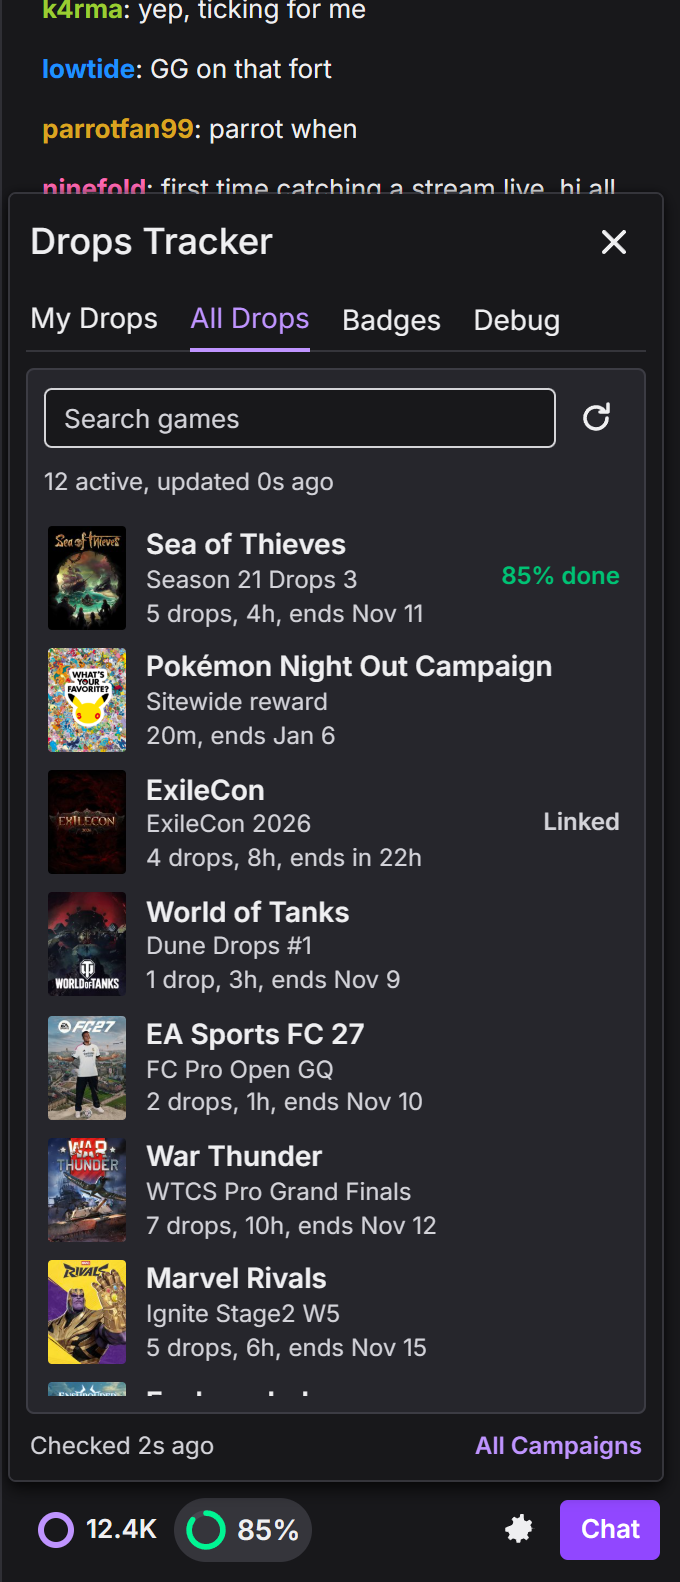
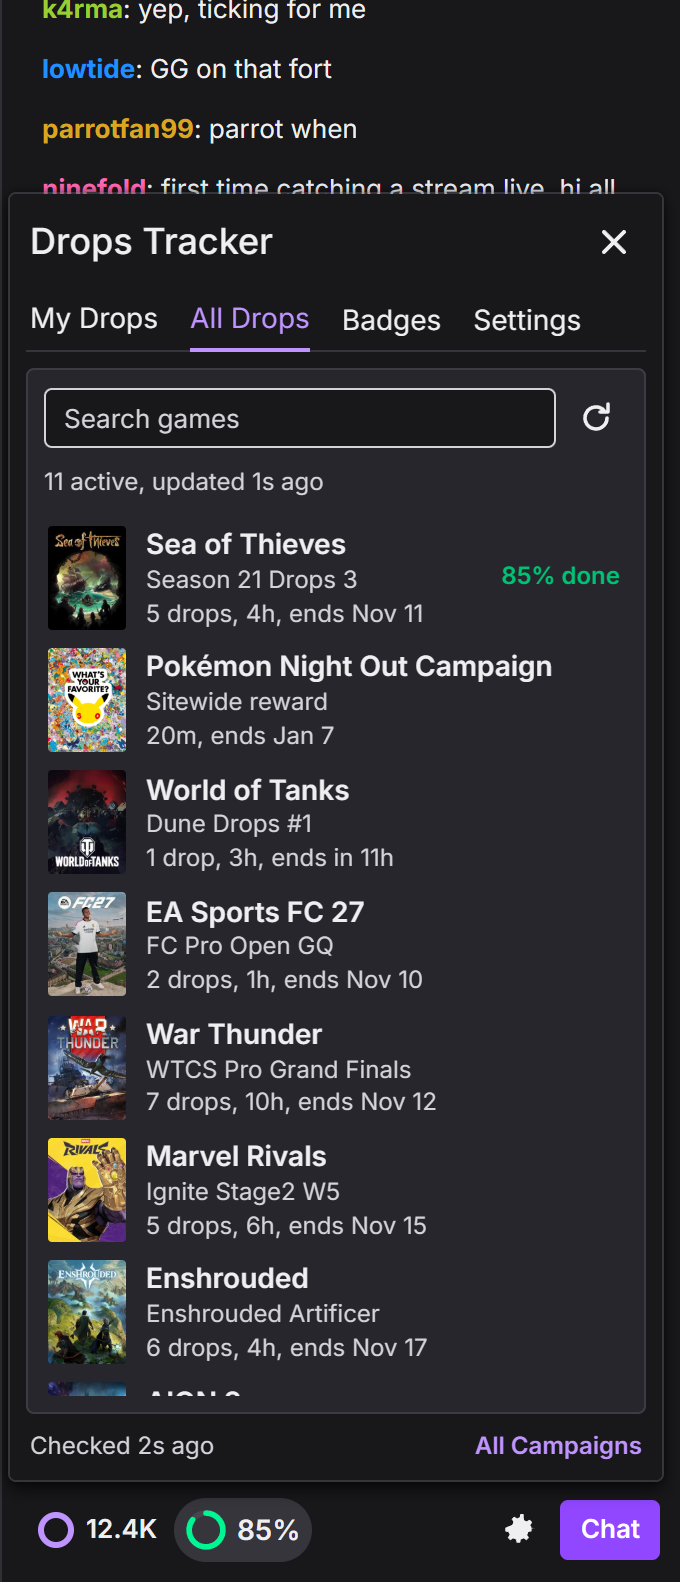
Settings tab, second-stream diagnosis, panel closing fix
- Settings tab replaces Debug. Auto-refresh and Auto-reload are on by
  default; Developer mode (off) reveals the debug tools.
- A hang while another stream is playing is diagnosed as second_stream,
  names the other stream, and is never auto-reloaded.
- The panel follows the chip when channel points mount late instead of
  closing itself.
- Facts doc: how a watched minute reaches Twitch, measured live.
- Screenshots and store images regenerated.

diff --git a/extension/lib/panel.js b/extension/lib/panel.js
@@ -21,7 +21,7 @@ const TEMPLATE = `
       <button id="tab-mine" class="tab" type="button" role="tab" aria-selected="true" aria-controls="view-mine">My Drops<i class="tab-dot"></i></button>
       <button id="tab-all" class="tab" type="button" role="tab" aria-selected="false" aria-controls="view-all">All Drops</button>
       <button id="tab-badges" class="tab" type="button" role="tab" aria-selected="false" aria-controls="view-badges">Badges</button>
-      <button id="tab-debug" class="tab" type="button" role="tab" aria-selected="false" aria-controls="view-debug">Debug</button>
+      <button id="tab-settings" class="tab" type="button" role="tab" aria-selected="false" aria-controls="view-settings">Settings</button>
     </div>
     <div id="view-mine" role="tabpanel" aria-labelledby="tab-mine">
     <div id="verdict" class="section status">
@@ -61,28 +61,42 @@ const TEMPLATE = `
       </div>
     </div>
     <div id="view-badges" role="tabpanel" aria-labelledby="tab-badges" hidden></div>
-    <div id="view-debug" role="tabpanel" aria-labelledby="tab-debug" hidden>
+    <div id="view-settings" role="tabpanel" aria-labelledby="tab-settings" hidden>
     <div class="section">
-      <p class="strong label">Settings</p>
       <div class="setting">
         <label for="auto-refresh">Auto-refresh Drops page</label>
         <span class="toggle">
-          <input id="auto-refresh" type="checkbox">
+          <input id="auto-refresh" type="checkbox" aria-describedby="auto-refresh-hint">
           <label for="auto-refresh" aria-hidden="true"></label>
         </span>
       </div>
+      <p id="auto-refresh-hint" class="sub setting-hint">Twitch's Drops page never updates by itself. Stream tabs are never touched.</p>
       <div id="auto-refresh-every" class="setting every" hidden>
         <label for="auto-refresh-minutes" class="sub">Refresh every</label>
         <select id="auto-refresh-minutes" class="select"></select>
       </div>
-      <div class="setting every">
+    </div>
+    <div class="section">
+      <div class="setting">
         <label for="auto-reload">Auto-reload hung streams</label>
         <span class="toggle">
-          <input id="auto-reload" type="checkbox">
+          <input id="auto-reload" type="checkbox" aria-describedby="auto-reload-hint">
           <label for="auto-reload" aria-hidden="true"></label>
         </span>
       </div>
+      <p id="auto-reload-hint" class="sub setting-hint">After 6 minutes with no new minutes. At most 3 tries, never on a paused stream or when another stream is the likely cause.</p>
     </div>
+    <div class="section">
+      <div class="setting">
+        <label for="dev-mode">Developer mode</label>
+        <span class="toggle">
+          <input id="dev-mode" type="checkbox" aria-describedby="dev-mode-hint">
+          <label for="dev-mode" aria-hidden="true"></label>
+        </span>
+      </div>
+      <p id="dev-mode-hint" class="sub setting-hint">Shows debug tools below: the lost minutes log, tracker status and debug info for bug reports.</p>
+    </div>
+    <div id="debug-sections" hidden>
     <details id="log-section" class="section">
       <summary><span id="log-summary" class="strong">Lost minutes</span>${CHEVRON_ICON}</summary>
       <div id="log-rows"></div>
@@ -105,6 +119,7 @@ const TEMPLATE = `
         <button id="debug-copy" class="link" type="button">Copy debug info</button>
       </div>
       <p class="sub log-note">Copied text has your channels and progress, never your login.</p>
+    </div>
     </div>
     </div>
     <footer class="foot">
@@ -221,6 +236,10 @@ export function createPanel(root, { reloadTab, onClose, channelLogin } = {}) {
     minutes.value = String(settings.autoRefreshMinutes);
     $('auto-refresh-every').hidden = !settings.autoRefresh;
     $('auto-reload').checked = settings.autoReload;
+    $('dev-mode').checked = settings.devMode;
+    const wasHidden = $('debug-sections').hidden;
+    $('debug-sections').hidden = !settings.devMode;
+    if (wasHidden && settings.devMode && !$('view-settings').hidden) renderDebug(lastState, Date.now());
   };
   const save = (change) => {
     showSettings({ ...settings, ...change });
@@ -228,6 +247,7 @@ export function createPanel(root, { reloadTab, onClose, channelLogin } = {}) {
   };
   toggle.addEventListener('change', () => save({ autoRefresh: toggle.checked }));
   $('auto-reload').addEventListener('change', () => save({ autoReload: $('auto-reload').checked }));
+  $('dev-mode').addEventListener('change', () => save({ devMode: $('dev-mode').checked }));
   minutes.addEventListener('change', () => save({ autoRefreshMinutes: Number(minutes.value) }));
   let reloadMemo = null;
   let minuteLog = [];
@@ -406,7 +426,7 @@ export function createPanel(root, { reloadTab, onClose, channelLogin } = {}) {
   }
 
   function showTab(name) {
-    for (const tab of ['mine', 'all', 'badges', 'debug']) {
+    for (const tab of ['mine', 'all', 'badges', 'settings']) {
       $(`view-${tab}`).hidden = tab !== name;
       $(`tab-${tab}`).setAttribute('aria-selected', String(tab === name));
     }
@@ -414,7 +434,7 @@ export function createPanel(root, { reloadTab, onClose, channelLogin } = {}) {
     $('foot-link').textContent = all ? 'All Campaigns' : 'Inventory';
     $('foot-link').href = all ? CAMPAIGNS_PAGE : 'https://www.twitch.tv/drops/inventory';
     if (name === 'badges' && lastState) renderBadges(lastState, Date.now());
-    if (name === 'debug') renderDebug(lastState, Date.now());
+    if (name === 'settings' && settings.devMode) renderDebug(lastState, Date.now());
     if (!all) return;
     chrome.storage.local.get('directory').then((r) => {
       directory = r.directory ?? directory;
@@ -425,7 +445,7 @@ export function createPanel(root, { reloadTab, onClose, channelLogin } = {}) {
   $('tab-mine').addEventListener('click', () => showTab('mine'));
   $('tab-all').addEventListener('click', () => showTab('all'));
   $('tab-badges').addEventListener('click', () => showTab('badges'));
-  $('tab-debug').addEventListener('click', () => showTab('debug'));
+  $('tab-settings').addEventListener('click', () => showTab('settings'));
   $('dir-refresh').addEventListener('click', () => loadDirectory(true));
   $('dir-search').addEventListener('input', () => renderDirectory(Date.now()));
   // Twitch's page shortcuts would otherwise take typed letters: f for fullscreen, m for mute.
@@ -457,7 +477,8 @@ export function createPanel(root, { reloadTab, onClose, channelLogin } = {}) {
     else if (state.lastGainAt && v.code === 'earning') age = `+1m ${ago(now - state.lastGainAt)}`;
     $('verdict-age').textContent = age;
     const action = $('verdict-action');
-    const reloadable = v.code === 'stalled' && v.tabId != null && v.cause !== 'too_many' && v.cause !== 'paused';
+    // A reload cannot fix these: the cause is another stream, or the user's own pause.
+    const reloadable = v.code === 'stalled' && v.tabId != null && !['too_many', 'second_stream', 'paused'].includes(v.cause);
     action.hidden = !reloadable;
     action.onclick = reloadable ? () => reloadTab?.(v.tabId) : null;
   }
@@ -642,7 +663,7 @@ export function createPanel(root, { reloadTab, onClose, channelLogin } = {}) {
       lastState = state;
       if (allShown()) renderDirectory(now);
       if (!$('view-badges').hidden) renderBadges(state, now);
-      if (!$('view-debug').hidden) renderDebug(state, now);
+      if (!$('view-settings').hidden && settings.devMode) renderDebug(state, now);
       $('checked').textContent = state.lastPollAt ? `Checked ${ago(now - state.lastPollAt)}` : '';
     },
   };

diff --git a/extension/lib/tracker.js b/extension/lib/tracker.js
@@ -314,7 +314,8 @@ function trackMinutes(previous, campaigns, sessions, firstGoodPoll, sessionOnly,
   return { peaks, added, risen };
 }
 
-function diagnose(candidates, playingCount, active, unclaimed) {
+function diagnose(candidates, streams, active, unclaimed) {
+  const playingCount = streams.filter((s) => s.playerState === 'playing').length;
   const named = (s) => s.displayName || s.login;
   const notPlaying = candidates.filter((s) => s.playerState !== 'playing');
   if (notPlaying.length === candidates.length) {
@@ -343,6 +344,18 @@ function diagnose(candidates, playingCount, active, unclaimed) {
       message: `${playingCount} streams are playing here. Twitch reportedly stops counting above ${STREAM_SOFT_LIMIT} per IP. Close the extras.`,
       tabId: playing.tabId,
     };
+  }
+  // Measured 2026-11-09: with a second stream playing, on the same channel or another one, Twitch
+  // stopped counting entirely, and closing it brought minutes back within about 2 min. Reloading
+  // the earning tab would not remove the cause, so this is not a reloadable cause.
+  // (docs/twitch-drops-facts.md, "Measured live"). It conflicts with one 2026-11-06 run where two
+  // streams still earned, so the message says what was seen rather than that two always fail.
+  const other = streams.find((s) => s.playerState === 'playing' && s.tabId !== playing.tabId);
+  if (other) {
+    const message = other.login && other.login === playing.login
+      ? `${named(playing)} is playing in two tabs, and Twitch is not adding minutes. A second stream stopped Drops in testing until it was closed. Close one of them.`
+      : `${named(other)} is also playing, and Twitch is not adding minutes on ${named(playing)}. A second stream stopped Drops in testing until it was closed. Close or pause ${named(other)}.`;
+    return { cause: 'second_stream', message, tabId: playing.tabId, otherTabId: other.tabId };
   }
   return {
     cause: 'uncounted',
@@ -482,7 +495,6 @@ export function update(prev, obs, now) {
   }
 
   // Verdict.
-  const playingCount = streams.filter((st) => st.playerState === 'playing').length;
   // A missing <video> is not evidence: Twitch could have moved the player out of reach.
   const allDead = candidates.length > 0 && candidates.every((c) => !['playing', 'no_video'].includes(c.playerState));
   const unchecked = streams.some((st) => st.channelState === 'unknown');
@@ -539,7 +551,7 @@ export function update(prev, obs, now) {
     if (now - since < limit) {
       s.verdict = { code: 'waiting', since };
     } else {
-      s.verdict = { code: 'stalled', since, ...diagnose(candidates, playingCount, s.active, s.unclaimed) };
+      s.verdict = { code: 'stalled', since, ...diagnose(candidates, streams, s.active, s.unclaimed) };
     }
   }
   const v = s.verdict;

diff --git a/extension/lib/settings.js b/extension/lib/settings.js
@@ -1,15 +1,22 @@
 // User settings and the auto-refresh timing. Pure, so it can be tested without a browser.
 
 export const INTERVALS = [1, 5, 10, 30];
-export const DEFAULTS = { autoRefresh: false, autoRefreshMinutes: 5, autoReload: false };
+// Both helpers are on by default (Tyler's call, 2026-11-09, for the store release). devMode only
+// shows the debug tools in the Settings tab.
+export const DEFAULTS = { autoRefresh: true, autoRefreshMinutes: 5, autoReload: true, devMode: false };
 export const DROPS_PAGES = ['https://www.twitch.tv/drops/*'];
 const JITTER_MS = 5000; // The alarm can fire slightly early; do not slip a whole minute over that.
 
+// A saved choice wins, so turning a default-on setting off sticks. Anything that is not a real
+// boolean falls back to the default rather than to off.
+const bool = (v, d) => (typeof v === 'boolean' ? v : d);
+
 export function normalize(raw) {
   return {
-    autoRefresh: raw?.autoRefresh === true,
+    autoRefresh: bool(raw?.autoRefresh, DEFAULTS.autoRefresh),
     autoRefreshMinutes: INTERVALS.includes(raw?.autoRefreshMinutes) ? raw.autoRefreshMinutes : DEFAULTS.autoRefreshMinutes,
-    autoReload: raw?.autoReload === true,
+    autoReload: bool(raw?.autoReload, DEFAULTS.autoReload),
+    devMode: bool(raw?.devMode, DEFAULTS.devMode),
   };
 }
 
@@ -20,8 +27,8 @@ export const RELOAD_AFTER_MS = 6 * 60000;
 export const RELOAD_GAP_MS = 10 * 60000;
 export const RELOAD_MAX = 3;
 const RECOVERED_SHOWN_MS = 30 * 60000;
-// A reload cannot fix a tab you paused, too many streams, an unclaimed drop, or a player it cannot
-// see, which could be Twitch moving it and would just reload for nothing.
+// A reload cannot fix a tab you paused, too many streams or a second one playing, an unclaimed
+// drop, or a player it cannot see, which could be Twitch moving it and would just reload for nothing.
 const RELOADABLE = new Set(['uncounted', 'frozen', 'ended', 'asleep']);
 
 /**

diff --git a/extension/panel.css b/extension/panel.css
@@ -195,7 +195,8 @@ details[open] .chevron { transform: rotate(90deg); }
 
 /* Settings. The toggle is Twitch's: 36x20, 2px outline, knob and outline purple when on. */
 .setting { display: flex; align-items: center; justify-content: space-between; gap: 8px; min-height: 24px; }
-.setting label[for="auto-refresh"]:not([aria-hidden]), .setting label[for="auto-reload"]:not([aria-hidden]) { cursor: pointer; }
+.setting > label:not([aria-hidden]) { cursor: pointer; }
+.setting-hint { margin-top: 2px; padding-right: 44px; }
 .every { margin-top: 8px; }
 .toggle { position: relative; flex: none; width: 36px; height: 20px; }
 .toggle input { position: absolute; inset: 0; width: 36px; height: 20px; margin: 0; opacity: 0; cursor: pointer; }

diff --git a/extension/content.js b/extension/content.js
@@ -167,7 +167,6 @@
     const points = row.querySelector(POINTS);
     const group = points && [...row.children].find((c) => c.contains(points));
     if (group ? chip.parentElement === group : row.contains(chip)) return;
-    closePanel(false);
     if (group) {
       chip.style.marginRight = '';
       group.append(chip);
@@ -175,6 +174,9 @@
       chip.style.marginRight = 'auto';
       row.prepend(chip);
     }
+    // Follow the chip rather than close: the points mount about a second after the row (real
+    // popout chat, 2026-11-09), so closing here shut a panel opened in that first second.
+    placePanel();
   }
 
   function fit(view) {

diff --git a/docs/twitch-drops-facts.md b/docs/twitch-drops-facts.md
@@ -6,7 +6,8 @@ Measured 2026-11-06 on a real account unless marked otherwise. Channel names in 
 
 ## Symptom index
 - **Inventory page shows an old percentage**: it does not update after load. It read 79% while the server read 82%. Refreshing only fixes the display.
-- **Minutes stop rising while the stream plays fine**: real server-side hangs, seen twice within 16 minutes on 2026-11-06 from about 15:06 UTC. One drop stayed at 195 of 240 for 5 min, then recovered with no action from this side. It then stayed at 198 for at least 5m20s, until sampling stopped. Cause unknown. What the browser tabs were doing at the time was not observed.
+- **Minutes stop rising while the stream plays fine**: real server-side hangs, seen twice within 16 minutes on 2026-11-06 from about 15:06 UTC. One drop stayed at 195 of 240 for 5 min, then recovered with no action from this side. It then stayed at 198 for at least 5m20s, until sampling stopped. Cause unknown. What the browser tabs were doing at the time was not observed. A third, about 4 minutes, was watched from inside the page on 2026-11-09: the page sent every minute and Twitch accepted each one without counting it, while the same channel was also open in a second browser. See [Measured live](#measured-live-2026-11-09).
+- **Is crediting tied to Twitch's integrity check, or what makes a minute count**: see [How a watched minute reaches Twitch](#how-a-watched-minute-reaches-twitch). The minute report carries the integrity token, but in the one hang watched live every report was sent and accepted, with the same channel open in two browsers at the time. Alone, one stream earned 19 of 19 minutes. With a second stream on another channel, it earned 0 in 10.5 minutes, and recovered once that stream closed.
 - **Session names a channel but nothing is rising**: `dropCurrentSession` still named the channel throughout that hang. It is not proof of earning.
 - **Stuck one minute short of a drop, with Twitch's page reading 99%**: seen once. See [Hang one minute short of a drop](#hang-one-minute-short-of-a-drop).
 - **Minutes lost with no visible cause**: not known. See [Why minutes are lost](#why-minutes-are-lost).
@@ -17,7 +18,8 @@ Measured 2026-11-06 on a real account unless marked otherwise. Channel names in 
 - **Lost minutes blamed on background or muted**: fixed 2026-11-07. `compareMinutes` in `extension/lib/minutelog.js` counted paused minutes with the rest. It now leaves them out and the panel says how many. Same real log, before and after: muted 26% to 82%, background 45% to 78%, one stream 52% to 95%, total 69% to 87%. Frozen and asleep players still count. Two streams now read 83% against 95% for one, but that includes a 15 minute hang, so it is not a measure of two streams alone.
 - **The log stops while a tab is still open**: it only keeps minutes where a stream can earn. In one case the log stopped at 00:56 UTC with the tab reading paused, and the channel was offline when checked at 01:36, so its stream most likely ended then. The exact end time was not checked.
 - **No drops listed on a channel, or the chip has no percentage**: by design, see `channelDrops` in `extension/lib/chip.js`. My Drops lists what this channel can earn, or else what another open tab can. A failed channel lookup hides nothing, since that is unknown rather than none. Progress on everything is still in All Drops.
-- **Clicking the chip shows nothing, or e2e times out waiting for `#drops-tracker-panel .panel`**: the panel stays `visibility:hidden` until `extension/panel.css` reports loaded or failed, in `openPanel` in `extension/content.js`, with no fallback. Seen once, 2026-11-07, on the real popout chat step, followed by 4 clean passes. Cause not known. Only seen in the test so far. `scripts/e2e.mjs` now prints the host, sheet and timing state if it recurs.
+- **Clicking the chip shows nothing, or the panel opens and vanishes within a second, or e2e times out waiting for `#drops-tracker-panel .panel`**: found 2026-11-09. On real popout chat, Twitch's channel points mount about a second after the chat row. `attach` in `extension/content.js` then moves the chip beside them, and it used to close the panel when it did. A click in that first second opened a panel that closed itself. The e2e clicks at once, so it failed every run from 2026-11-09. Now the panel follows the chip (`placePanel`) instead. If it recurs, `scripts/e2e.mjs` prints the host, sheet and timing state. An empty `hostVisibility` there means the panel was removed, not left unstyled. Separately, the panel stays `visibility:hidden` until `extension/panel.css` reports loaded or failed.
+- **"<channel> is also playing" on a hang, with no Reload button**: a second stream was playing when minutes stopped. In the 2026-11-09 test, a second stream stopped Drops until it was closed, so this cause is never auto-reloaded. See `diagnose` in `extension/lib/tracker.js` and [Measured live](#measured-live-2026-11-09).
 - **Minutes rising, but well under one per minute**: seen once, 2026-11-06 from 15:19 UTC: 15 minutes credited in 38, with the strip alternating added and missed. Measured again straight after: exactly +1 every 60s. Cause unknown. Rising alone is not healthy, so the tracker reports the rate and calls under 75% over 10+ watched minutes "Earning slowly".
 - **Panel looks off next to Twitch**: it follows the Drops & More panel, measured 2026-11-06: 326px wide, sections `--color-background-alt` with `--color-border-base` and 4px radius, cards `--color-background-float`, 40px art, 8px bar in `--color-background-progress-status`, type 18/500, 14/600, 12/400, round 32px icon buttons. Twitch's root font-size is 10px, so use px, not rem.
 - **Scrollbars or the wrong font in the panel**: it must stay in a shadow root on the page. An iframe gets neither Twitch's font nor its tokens, and showed scrollbars at the display scaling used in testing.
@@ -27,7 +29,7 @@ Measured 2026-11-06 on a real account unless marked otherwise. Channel names in 
 - **Chip missing from the chat row**: the hook is `[data-test-selector="chat-input-buttons-container"]` in `extension/content.js`. `npm run e2e` fails loudly if real Twitch stops matching it.
 - **All Drops says the campaigns page did not answer, or a tab flashes up and nothing loads**: Twitch only gives that list to its own page (see [The All Drops list](#the-all-drops-list)). The hook is `extension/page-hook.js`, which wraps the page's `fetch`. If Twitch stops using `fetch` on that page or renames `ViewerDropsDashboard`, the capture finds nothing and the load times out at 25s. Never measured in a truly hidden tab on a logged-in account: the test browser reported itself visible, so if this fails only in the background, that is why.
 - **All Drops does not update after moving to its page inside Twitch**: the hook only runs on a full load of `/drops/campaigns`. It was narrowed from all of `/drops/*` so that it stays off the Inventory page, where drops are claimed, because whether Twitch's integrity check reacts to a wrapped `fetch` is unknown. Measured on real Twitch: its exact code captured the real list with the page rendering normally, though by client-side navigation, not a real load or a hidden tab.
-- **A stream reloaded by itself**: Auto-reload hung streams, off by default. Timing and limits are in `autoReloadStep` in `extension/lib/settings.js`. It reloads only the tab the verdict names, and only while that tab is still on a channel. Whether a reload clears a hang has not been measured: the panel reports whether minutes came back, and that note is the evidence to collect.
+- **A stream reloaded by itself**: Auto-reload hung streams, on by default since 2026-11-09 (Settings tab). Timing and limits are in `autoReloadStep` in `extension/lib/settings.js`. It reloads only the tab the verdict names, and only while that tab is still on a channel. Whether a reload clears a hang has not been measured: the panel reports whether minutes came back, and that note is the evidence to collect.
   - The only real firing so far (2026-11-07 00:19:58 UTC) is no evidence. It hit a tab about 2 seconds after it came back from a 55 minute pause, because the hang was timed from the last gain, before the pause. "Minutes came back" was just the tab playing again.
   - Fixed the same day: a hang now counts from `ableSince` (in `extension/lib/tracker.js`), when a tab last became able to earn, so a tab back from a pause or offline waits as normal. Side effect: pausing and resuming during a real hang restarts its timer.
   - A reload also cleared the player's mute, so expect that.
@@ -46,13 +48,57 @@ Not known. No official explanation was found, and reports conflict on background
 - Two streams: 47 of 53, but 5 of the 6 misses fell in one 11 minute burst (21:16 to 21:26), and a repeat of the same test gave 97%.
 - Tab in the background: 24 of 25. Player muted: 6 of 6. Neither was a problem here.
 
-Two streams may raise the risk, or that burst may be unrelated: what differed between the two stretches was not recorded, including which channel the second stream was.
+Two streams may raise the risk, or that burst may be unrelated: what differed between the two stretches was not recorded, including which channel the second stream was. On 2026-11-09 a second stream on another channel stopped credit completely for 10.5 minutes, until it was closed; see [Measured live](#measured-live-2026-11-09).
 
 **Open questions:**
 
 - The half-speed stretches earlier that day remain unexplained.
 - Brave Shields (or another content blocker) blocking something: the minute log cannot see this, so it needs testing by hand.
 - Ads: the ad reading in `extension/background.js` uses `data-a-target` names not yet seen on a real ad, so it can read false during one.
+
+## How a watched minute reaches Twitch
+Read on 2026-11-08 from Twitch's web client code (every JS chunk from `assets.twitch.tv` plus the Amazon IVS player's wasm, downloaded as static files with no player run). Steps 1 to 3 were then confirmed live; see [Measured live](#measured-live-2026-11-09) below.
+
+1. **The player counts.** The live player is Amazon IVS compiled to wasm (`amazon-ivs-wasmworker.min-*.wasm`), with its own `MinuteWatchedController` and `PerMinuteTimer`. An hls.js backend exists behind the experiment `hlsjs_playback_adapter`, and a plain `<video>` module does the same. In the JS versions the timer starts on the `playing` event, stops on `pause`, `ended` and teardown, and resumes where it stopped. The first tick lands at a random 0 to 59s after play starts, then every 60s. Buffering does not stop it in the JS versions. The IVS version could not be read.
+2. **It reports a `minute-watched` event** with `minutes_logged` and `seconds_offset`. The page adds: `muted`, `volume`, `time_spent_hidden`, `is_ad_playing`, `app_fullscreen`, `chat_visible`, `logged_in`, `user_id`, `broadcast_id`, `backend`, quality and `thermal_state`. So Twitch knows each minute's mute, volume and hidden time. Whether it uses them to decide credit is not known.
+3. **It is sent through GQL, not to `spade.twitch.tv`.** The page batches events for 1s and sends them as the mutation `sendSpadeEvents` (`{data, repository:"twilight", encoding:"GZIP_B64"}`) to `gql.twitch.tv/gql`. The headers are the same as every GQL call: OAuth, Client-ID, Client-Session-Id, and **`Client-Integrity` whenever the page holds a token** (`cit_gql_rollout` was on in Twitch's settings). Exception: an event marked `nativeSpadeEnabled` is sent by the player itself, and where that goes was not found.
+4. **A failed send loses the minute.** It is a plain `fetch`: the response is never read, so an error or an integrity challenge on it goes unanswered. After 3 failed network attempts, all of the page's analytics stop for 60s, and events in that window are thrown away, not retried.
+5. **Twitch confirms over pubsub.** The page knows a message type `drop-progress` with `{channel_id, drop_id, current_progress_min, required_progress_min}` (from Twitch's staff pubsub simulator). It sits next to `user-drop-events` in Twitch's topic list. TwitchDropsMiner listens on `user-drop-events.<userID>` for it, which was not checked here.
+
+**The integrity token.** Fetched at page boot from the integrity endpoint, which is guarded by Kasada (`k.twitchcdn.net`). Kasada guards only that endpoint and the login, signup and auth flow endpoints, nothing on the watch path. The token is refreshed at 90% of its lifetime. A failed fetch is retried 3 times, after about 5 to 10s, 25 to 50s and 125 to 250s. If all fail, the page logs a warning and carries on without a token.
+
+**So, tied to integrity or not?** The minute report rides the same GQL path that integrity guards, and carries the token. Inventory works without it, and so does reading progress. Whether the server refuses to credit a minute sent without a valid token is not known; that happens on Twitch's side.
+
+### Measured live, 2026-11-09
+A signed-in tab on a channel (Golf) earning a channel badge, 03:16 to 03:30 UTC, in the app's browser pane. The page's own `gql` calls were logged from inside the page (operation names, which headers were present, the decoded events). Token values were never read out. The badge's minutes came from `DropCurrentSessionContext`, sampled every 15s.
+
+**Not a clean single-stream test.** The same account had the same channel open in Brave the whole time, and a phone was playing another channel. If the phone was on the home Wi-Fi (not confirmed), that is three streams on one IP. The Brave tab sent its own minute reports, which were not logged, so a credit cannot always be tied to the report that earned it.
+
+- Every `minute-watched` went out as `sendSpadeEvents` with `Client-Integrity` set, a 500 character token. Each got HTTP 200 with `statusCode: 204` inside. They came exactly 60s apart, at the same `seconds_offset` (30.27s) each time, and `minutes_logged` counted 1, 2, 3 and on. The native player path was not seen.
+- Every other `gql` call the page made also carried `Client-Integrity`.
+- Each report says how much video was really downloaded that minute: `transport_segments` 30 (2s segments) and `transport_download_bytes` about 25.8 MB at 720p. So Twitch can tell a playing stream from a page that only sends reports. The report also has `player_state`, `hidden`, `muted`, `volume`, `playback_rate`, `is_ad_playing` and the player's size.
+- **Credits land about once a minute, but not on the report's beat.** At +245, +605, +665 and +725s, the session minutes rose within 2s of this tab's report. Two other credits (between +277 and +292s, and between +337 and +352s) matched none of this tab's reports. In the later two-channel run, two credits landed 3s *before* the report they would belong to. So a report is not what immediately triggers a credit; Twitch credits on its own clock, about once a minute.
+- **A second player appears for about 43s at a time, even with Turbo.** At +245s Twitch logged `video_ad_pbyp_spawn`, with a muted 191px "picture-by-picture" player. That player sent its own `minute-watched` (`player: "picture-by-picture"`, `minutes_logged` 1) and despawned at +288s. The account has Turbo (`turbo: true` in every report) and Tyler reports seeing no ads, so whether an ad shows is not known; only the event names say "ad". The main player kept reporting throughout. In the clean pass below it happened twice more, and its report never earned an extra minute.
+- **A hang, watched live:** after 274 at +352s, minutes stayed flat for about 4 minutes. The reports at +365, +425, +485 and +545s were all sent with the token, accepted with 204, and showed 30 segments downloaded and `Playing`. The count went up again at +607s, with nothing done, and kept rising by 1 a minute. The 4 missed minutes were not made up. After it, credits followed this tab's reports, where before it some had followed the Brave tab's. The hang also began about 75s after the picture-by-picture player despawned.
+
+So this tab did everything right and Twitch did not count its minutes. A missing token or a failed send from this tab is ruled out. It does not show a hang with no cause: two players on one channel, possibly three streams on the IP, and a picture-by-picture spawn all overlap it. The likeliest reading is that Twitch was switching which player it counted, but that is a guess from one case.
+
+**Clean pass, one stream only** (same channel, 03:34 to 03:54 UTC, Brave's tab closed and the phone stopped):
+- 19 reports from the main player, and 19 minutes credited (282 to 301). Every minute counted, and there was no hang.
+- All reports carried `Client-Integrity` and got 204.
+- Each credit landed 0 to 28s after its report, usually within 13s (15s sampling).
+- Two picture-by-picture spawns of 43s each (+397s and +1014s) caused no hang and no extra minute.
+
+So one stream on one IP earned every minute for 19 minutes. A single clean pass cannot prove that one stream never hangs.
+
+**Two streams, different channels** (03:56 to 04:12 UTC, both in the pane, same account, nothing else playing). The earning channel (Golf) was in the front tab. A second channel with no campaign (Hotel, Just Chatting, zeroed session, nothing in Inventory moved) was in a background tab.
+- **No credit at all for 10.5 minutes** while both played: stuck at 302. All 11 of Golf's reports were sent with the token and got 204, with 30 segments each and `Playing`. Hotel's 11 reports (`hidden: true`) were also accepted. The session kept naming Golf throughout, so it is not proof of earning (as above).
+- **Closing Hotel brought credit back within about 2 minutes.** It was closed at +642s. The report at +693s was not counted, the next was (303 by +765s), and then 1 a minute: 303 to 306 by +930s.
+- This **conflicts with 2026-11-06**, when two streams earned 47 of 53 minutes (see [Why minutes are lost](#why-minutes-are-lost)). What differed is not known: that day's second channel, which tab was in front, and whether it was the same browser were not recorded.
+
+Taken together: a second playing stream, whether on the same channel or another, is the only condition seen to stop credit live. Here it stopped it completely, not just slowed it. A reload of the earning tab was not tried; closing the other stream was what worked.
+
+To repeat this measurement, use a stream that is already open: the DevTools Network panel, filtered to `gql`, shows each `sendSpadeEvents` call. Never open an extra stream to do it (see Limits). The extension must not read, copy or send any of this: its rule is read-only, no simulated watching and no token replay (CONTRIBUTING.md).
 
 ## Hang one minute short of a drop
 Seen once, 2026-11-06. A 120 minute drop stuck at 119 from 22:53 UTC, with Inventory and the session agreeing and the player at full speed. Twitch's page read 99%, which can look finished. A pause or reload around 22:59 did not restart it. The second open stream was closed at about 23:06, and credit resumed at 23:08 after 15 flat minutes. Twitch recorded the grant at 23:08:10, the same minute credit resumed.
@@ -69,7 +115,7 @@ Linking is not needed to earn in general: drops on unlinked campaigns still reac
 
 ## Limits
 - **Drops: one channel and one campaign at a time.** Twitch's help page ("How Drops Work") states both. More tabs do not speed it up. Measured: 1 minute per about 60s while two eligible channels were open, though only for about 100s.
-- **Two streams per IP is a different rule.** It is reported for viewer counts, not Drops: with more than two open, none are said to count (botcrawl.com, Oct 2025, citing a Twitch message to partners; not verified against a Twitch document). Users report Drops stalling above two. Unconfirmed: progress kept rising during about 100s with three open, too short to settle it. Do not open extra real streams to test this: a third stream on your IP can cost real progress, which is why `scripts/e2e.mjs` fakes channel pages.
+- **Two streams per IP is a different rule.** It is reported for viewer counts, not Drops: with more than two open, none are said to count (botcrawl.com, Oct 2025, citing a Twitch message to partners; not verified against a Twitch document). Users report Drops stalling above two. Unconfirmed: progress kept rising during about 100s with three open, too short to settle it. Measured 2026-11-09: with **two** playing on one account, the second on a channel without a campaign, credit stopped for 10.5 minutes and came back about 2 minutes after the second was closed. This conflicts with 2026-11-06 (two streams, 47 of 53 credited), so the threshold is not settled. See [Measured live](#measured-live-2026-11-09). Do not open extra real streams to test this: a third stream on your IP can cost real progress, which is why `scripts/e2e.mjs` fakes channel pages.
 - A channel only helps if it has a campaign. Live with no campaign returns `viewerDropCampaigns: null`.
 
 ## API shapes (`gql.twitch.tv`, persisted queries, Client-ID of the web client)

diff --git a/README.md b/README.md
@@ -55,20 +55,20 @@ It uses the Twitch login already in that browser. There is no build step. After 
 - **My Drops**: the verdict, a 30-minute credit strip, the drops you can earn where you are, each open stream's state with a reload button, and earned rewards you have not claimed. On a channel with no drops it shows what another open tab can earn, headed `Watch Drops on <channel>`, or nothing.
 - **All Drops**: every campaign running on Twitch, yours first, with search. Twitch only gives this list to its own campaigns page, so the extension opens that page in a background tab for a moment (no video, so it uses no stream slot) and reads the answer the page receives. Cached for 30 minutes.
 - **Badges**: the current channel's sub and watch badge drops. Watch badges are also tracked like any other drop.
-- **Debug**: settings, the Lost minutes log, the tracker's current state, **Check now**, and **Copy debug info** for bug reports.
+- **Settings**: the two helpers below, and **Developer mode**, which shows the debug tools under them: the Lost minutes log, the tracker's current state, **Check now**, and **Copy debug info** for bug reports.
 
 | My Drops | All Drops | Badges |
 |---|---|---|
 | ![My Drops tab](docs/screenshots/my-drops.png) | ![All Drops tab listing campaigns with box art, yours first](docs/screenshots/all-drops.png) | ![Badges tab with a sub badge and a watch badge](docs/screenshots/badges.png) |
 
-**Settings** (Debug tab, all off by default):
+**Settings** (Settings tab; both helpers on by default, Developer mode off):
 
 - **Auto-refresh Drops page**: reloads open `twitch.tv/drops/*` tabs every 1, 5, 10 or 30 minutes, since that page never updates itself. Never touches stream tabs.
-- **Auto-reload hung streams**: reloads a stream tab after 6 minutes with no new minutes, counted from when that tab could last earn. At most 3 tries per hang, 10 minutes apart, never on a paused tab, with too many streams open, or when an unclaimed drop may be the cause. Whether a reload actually clears a hang is not yet measured.
+- **Auto-reload hung streams**: reloads a stream tab after 6 minutes with no new minutes, counted from when that tab could last earn. At most 3 tries per hang, 10 minutes apart. Never on a paused tab, when another playing stream is the likely cause, or when an unclaimed drop may be the cause. Whether a reload actually clears a hang is not yet measured.
 
-**Lost minutes** (Debug tab) records each watched minute: whether it was credited, how many streams were playing, tab in background, muted, picture height, playback speed, ad showing. Once both sides of a condition have 10 minutes it compares credit rates. Paused minutes are left out. A gap is a lead, not a cause, since the conditions overlap.
+**Lost minutes** (Settings tab, with Developer mode on) records each watched minute: whether it was credited, how many streams were playing, tab in background, muted, picture height, playback speed, ad showing. Once both sides of a condition have 10 minutes it compares credit rates. Paused minutes are left out. A gap is a lead, not a cause, since the conditions overlap.
 
-<img src="docs/screenshots/debug.png" width="340" alt="Debug tab with settings and the Lost minutes comparison open">
+<img src="docs/screenshots/debug.png" width="340" alt="Settings tab with Developer mode on and the Lost minutes comparison open">
 
 ## How it works
 
